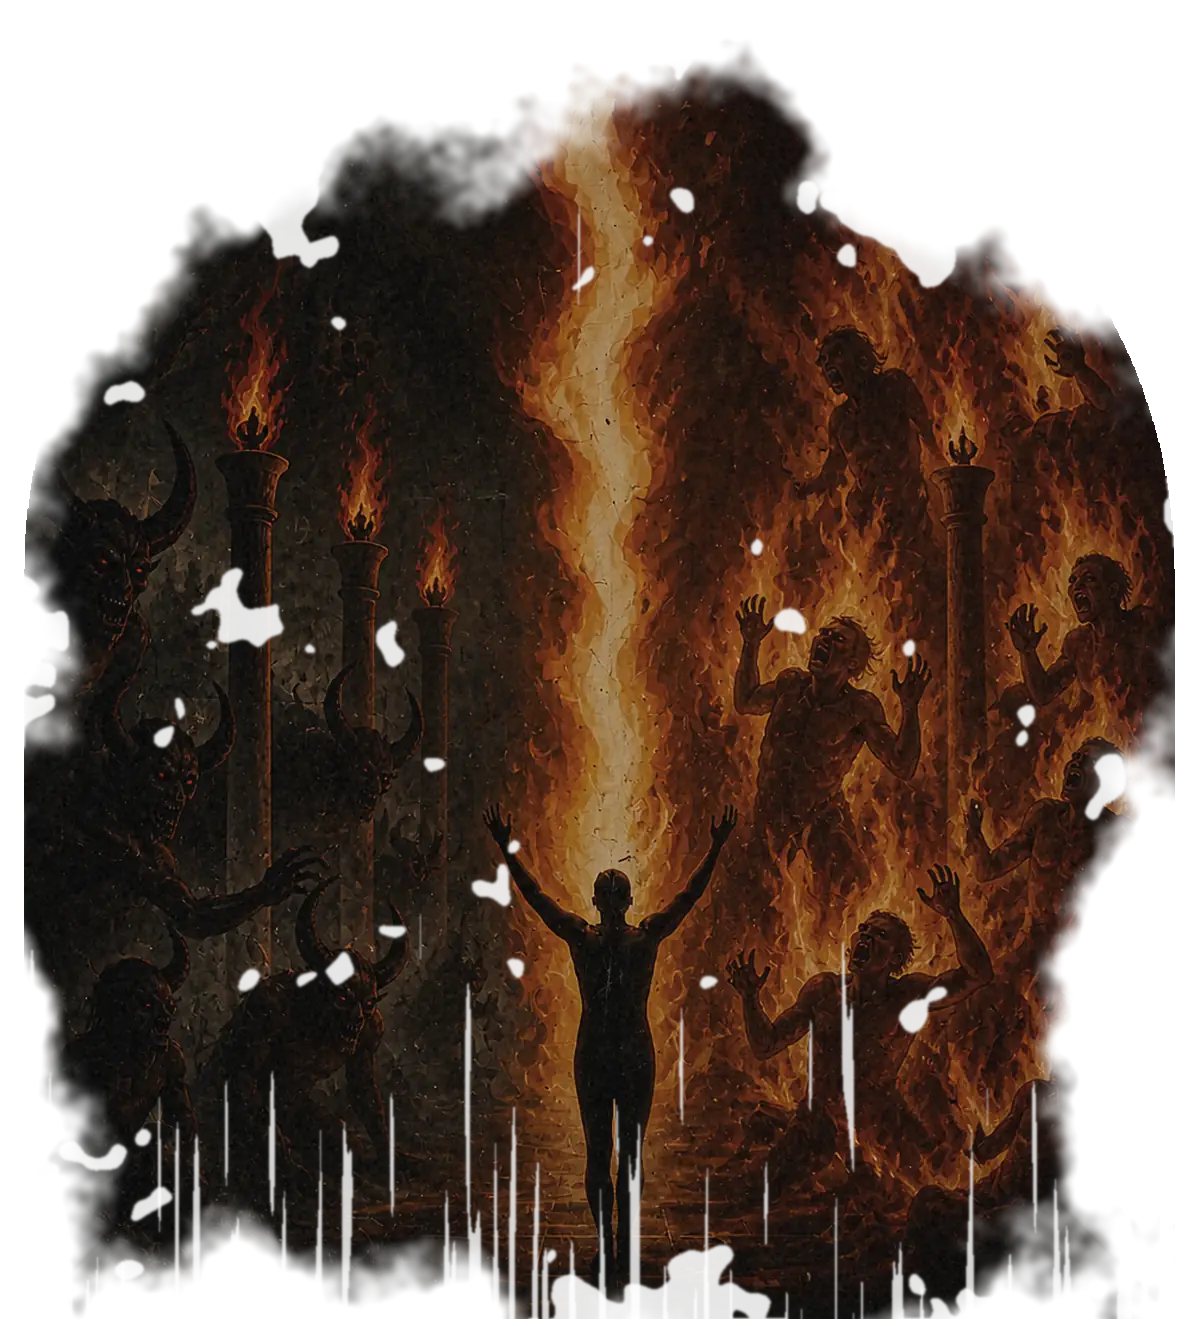
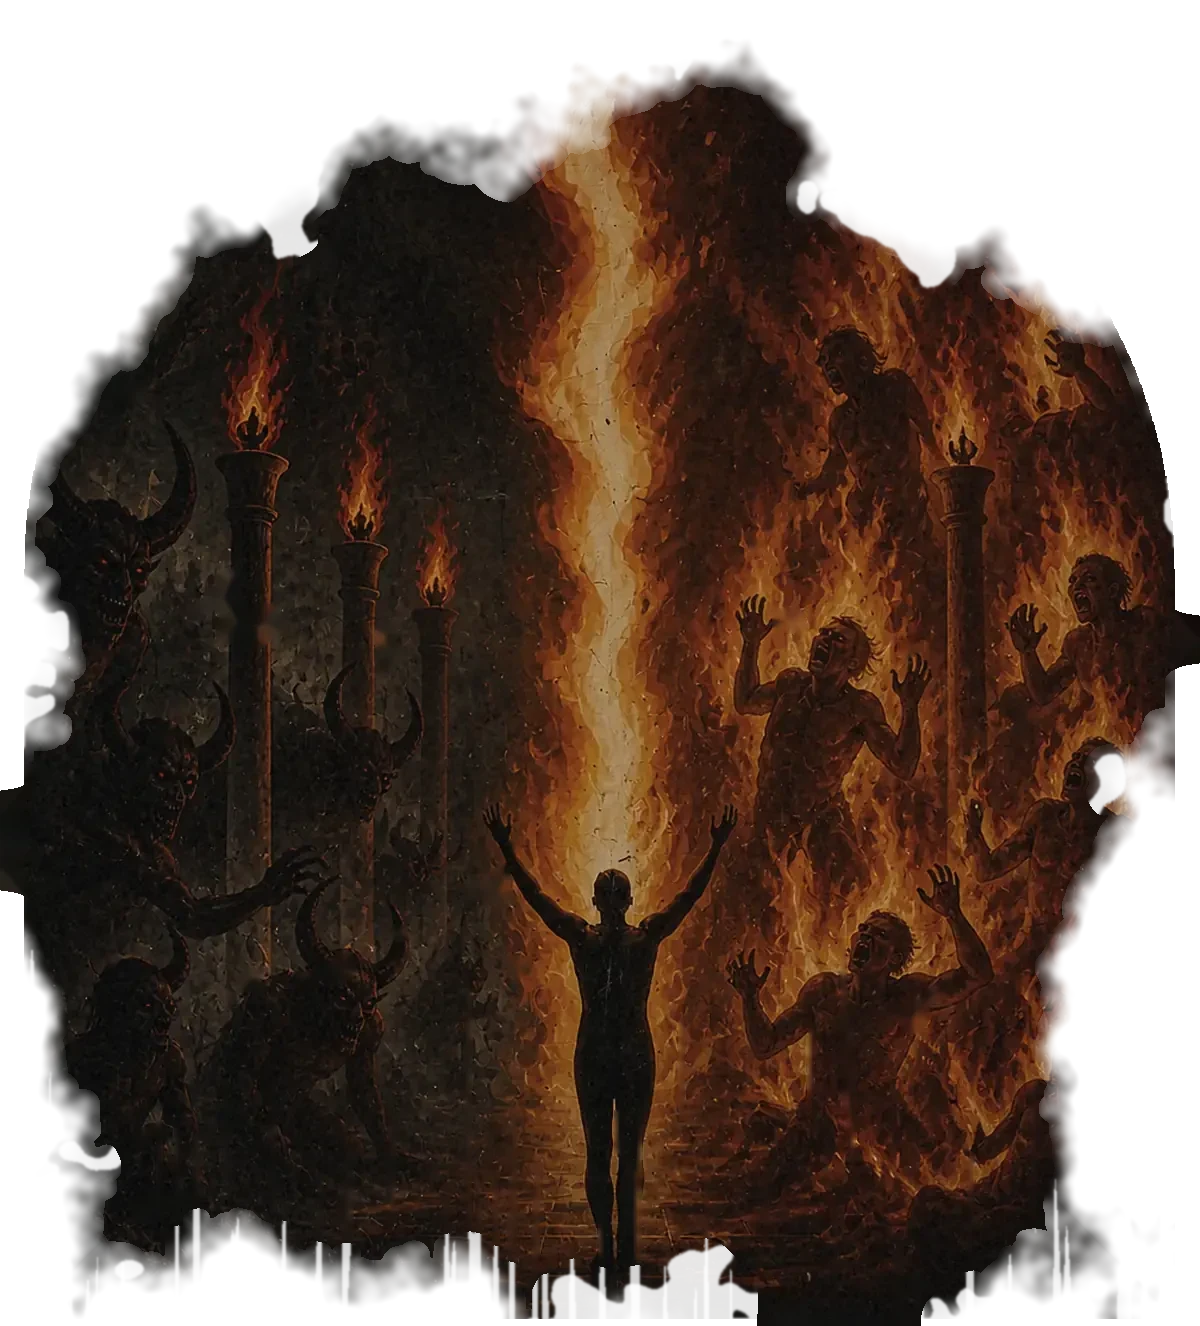
Murales: riempiti i buchi interni di trasparenza (si vedeva il vuoto dietro), bordi consumati invariati
Claude-Session: https://claude.ai/code/session_014dApnh5cQuMdZvTWDcVASP

diff --git a/sw.js b/sw.js
@@ -3,7 +3,7 @@
  * - Asset pesanti (modelli, texture, audio): cache separata; scaricati in background dopo l'installazione.
  * Le due versioni qui sotto le aggiorna tools/bump.sh a ogni modifica (hash del contenuto): non toccarle a mano. */
 const SHELL_VERSION = '707dbf1197';   // @shell
-const ASSET_VERSION = 'c5278d8dba';   // @assets
+const ASSET_VERSION = '764b8881e4';   // @assets
 const SHELL = 'ng-shell-' + SHELL_VERSION, ASSETS = 'ng-assets-' + ASSET_VERSION;
 const SHELL_FILES = ['./','./css/style.css','./icons/icon-180.png','./icons/icon-192.png','./icons/icon-32.png','./icons/icon-512.png','./icons/maskable-512.png','./index.html','./js/audio/ambience.js','./js/audio/audio.js','./js/audio/hall.js','./js/events/ambient.js','./js/events/cellar.js','./js/events/combat.js','./js/events/dawn.js','./js/events/door.js','./js/events/film-shrine.js','./js/events/glass.js','./js/events/hall.js','./js/events/hound.js','./js/events/keypad.js','./js/events/lightblade.js','./js/events/morgue.js','./js/events/notes.js','./js/events/rats.js','./js/events/scare.js','./js/events/sorella.js','./js/events/space.js','./js/events/torch.js','./js/events/tower.js','./js/events/tv.js','./js/events/ward.js','./js/events/warehouse.js','./js/main.js','./js/personal.js','./js/player/chapel-approach.js','./js/player/controls.js','./js/player/player.js','./js/pwa.js','./js/render/quality.js','./js/render/scene.js','./js/story.js','./js/ui/instability.js','./js/ui/rgbshift.js','./js/world/aged.js','./js/world/atmos.js','./js/world/bedroom.js','./js/world/bend.js','./js/world/blood.js','./js/world/bloodfont.js','./js/world/breath.js','./js/world/candles.js','./js/world/chapel.js','./js/world/contact-shadows.js','./js/world/decor.js','./js/world/dust.js','./js/world/electrical-panel.js','./js/world/elevator.js','./js/world/extra.js','./js/world/film-catalog.js','./js/world/film-shrine.js','./js/world/fingerwrite.js','./js/world/lights.js','./js/world/materials.js','./js/world/morgue-wall.js','./js/world/nun.js','./js/world/portal.js','./js/world/props.js','./js/world/radiograph.js','./js/world/redlight.js','./js/world/reflection-substitute.js','./js/world/rooms.js','./js/world/rosary.js','./js/world/round-lamps.js','./js/world/rusted-door-frame.js','./js/world/tunnel.js','./js/world/worn-paper.js','./js/world/worn-steel.js','./manifest.webmanifest','./vendor/three/LICENSE','./vendor/three/Reflector.js','./vendor/three/loaders/GLTFLoader.js','./vendor/three/three.module.min.js','./vendor/three/utils/BufferGeometryUtils.js']; // @shellfiles
 const ASSET_FILES = ['./assets/audio/crowd_drone.mp3','./assets/audio/demon_growl.mp3','./assets/audio/fire_swoosh.mp3','./assets/audio/hound_breath.mp3','./assets/audio/step0.mp3','./assets/audio/step1.mp3','./assets/audio/step2.mp3','./assets/audio/step3.mp3','./assets/audio/step4.mp3','./assets/models/agnese/suor-agnese.glb','./assets/models/ammo.glb','./assets/models/axe.glb','./assets/models/bin.glb','./assets/models/c_nurse.glb','./assets/models/c_occ.glb','./assets/models/cabinet.glb','./assets/models/cam.glb','./assets/models/can.glb','./assets/models/cart.glb','./assets/models/chair.glb','./assets/models/door.glb','./assets/models/gate.glb','./assets/models/hlamp.glb','./assets/models/hound.glb','./assets/models/hs_bed.glb','./assets/models/hw_door_1.glb','./assets/models/hw_wheel_chair.glb','./assets/models/kit_cables.glb','./assets/models/kit_fence.glb','./assets/models/kit_gutter.glb','./assets/models/kit_ind.glb','./assets/models/kit_manhole.glb','./assets/models/kit_pipes.glb','./assets/models/lamp.glb','./assets/models/m_bell.glb','./assets/models/m_diver.glb','./assets/models/m_nurse.glb','./assets/models/m_occ.glb','./assets/models/m_pirate.glb','./assets/models/m_root.glb','./assets/models/m_varka.glb','./assets/models/m_whisperer.glb','./assets/models/mg_chair.glb','./assets/models/mg_tool1.glb','./assets/models/mg_tool3.glb','./assets/models/mg_tool4.glb','./assets/models/mg_wall.glb','./assets/models/pistol.glb','./assets/models/rack.glb','./assets/models/rim.glb','./assets/models/seclight.glb','./assets/models/shelf.glb','./assets/models/slamp1.glb','./assets/models/slamp2.glb','./assets/models/sorella.glb','./assets/models/stool.glb','./assets/models/stove.glb','./assets/models/tank.glb','./assets/models/whisperer.glb','./assets/models/wlamp.glb','./assets/models/x_basket.glb','./assets/models/x_bust.glb','./assets/models/x_clock.glb','./assets/models/x_gnome.glb','./assets/models/x_lion.glb','./assets/models/x_micro.glb','./assets/models/x_rat.glb','./assets/models/x_screen.glb','./assets/models/x_spray.glb','./assets/models/x_tv.glb','./assets/models/x_watch.glb','./assets/tex/alt_stone.jpg','./assets/tex/bath_bg.jpg','./assets/tex/blood_digits.png','./assets/tex/blood_font.png','./assets/tex/blood_real.png','./assets/tex/brick_c.jpg','./assets/tex/brick_n.jpg','./assets/tex/brick_orm.jpg','./assets/tex/elevator_details.webp','./assets/tex/elevator_mural.webp','./assets/tex/film-shrine/collection.webp','./assets/tex/film-shrine/featured.webp','./assets/tex/film-shrine/sources.json','./assets/tex/floorA_c.jpg','./assets/tex/floorA_n.jpg','./assets/tex/floorA_orm.jpg','./assets/tex/floorB_c.jpg','./assets/tex/floorB_n.jpg','./assets/tex/floorB_orm.jpg','./assets/tex/floor_planks.jpg','./assets/tex/foot_l.png','./assets/tex/foot_r.png','./assets/tex/hall_bg.jpg','./assets/tex/handA.png','./assets/tex/handC.png','./assets/tex/handM.png','./assets/tex/handN.png','./assets/tex/mg_floor.jpg','./assets/tex/morgue_doll_head.webp','./assets/tex/morgue_wall_atlas.webp','./assets/tex/night_bg.jpg','./assets/tex/pic_alice.jpg','./assets/tex/pic_anatomy.webp','./assets/tex/pic_burn_figure.webp','./assets/tex/pic_chapel_altar.webp','./assets/tex/pic_chapel_hell.webp','./assets/tex/pic_chapel_skel.webp','./assets/tex/pic_charcoal.webp','./assets/tex/pic_corridor.webp','./assets/tex/pic_drawing.jpg','./assets/tex/pic_drawing2.webp','./assets/tex/pic_elisa.jpg','./assets/tex/pic_elisa_altar_burnt.webp','./assets/tex/pic_family.webp','./assets/tex/pic_kid_1.webp','./assets/tex/pic_kid_2.webp','./assets/tex/pic_kid_3.webp','./assets/tex/pic_kid_4.webp','./assets/tex/pic_laya.jpg','./assets/tex/pic_mural_angel.webp','./assets/tex/pic_mural_angels.webp','./assets/tex/pic_mural_cathedral.webp','./assets/tex/pic_mural_child.webp','./assets/tex/pic_mural_corridor.webp','./assets/tex/pic_mural_demon.webp','./assets/tex/pic_mural_dog.webp','./assets/tex/pic_mural_door.webp','./assets/tex/pic_mural_eyes.webp','./assets/tex/pic_mural_faces.webp','./assets/tex/pic_mural_fire.webp','./assets/tex/pic_mural_inferno.webp','./assets/tex/pic_mural_nun.webp','./assets/tex/pic_mural_ritual.webp','./assets/tex/pic_mural_skull.webp','./assets/tex/pic_mural_throne.webp','./assets/tex/pic_mural_wide.webp','./assets/tex/pic_rebecca.jpg','./assets/tex/pic_saint.webp','./assets/tex/pic_steve.jpg','./assets/tex/pic_window.webp','./assets/tex/pic_yana.jpg','./assets/tex/pt_altar_mold.webp','./assets/tex/pt_blocks.webp','./assets/tex/pt_gravel.webp','./assets/tex/pt_layers.webp','./assets/tex/pt_mold.webp','./assets/tex/pt_plaster.webp','./assets/tex/pt_rough.webp','./assets/tex/pt_stain.webp','./assets/tex/rust_c.jpg','./assets/tex/rust_n.jpg','./assets/tex/rust_orm.jpg','./assets/tex/rust_ov.jpg','./assets/tex/rust_ov2.jpg','./assets/tex/stone_c.jpg','./assets/tex/stone_n.jpg','./assets/tex/stone_orm.jpg','./assets/tex/sym_eye.png','./assets/tex/sym_face.png','./assets/tex/sym_house.png','./assets/tex/wallpaper_burnt.jpg','./assets/tex/ward_ceiling.jpg','./assets/tex/wr_elisa_1.png','./assets/tex/wr_elisa_2.png','./assets/tex/wr_elisa_3.png','./assets/tex/wr_elisa_4.png','./assets/tex/wr_elisa_h.png','./assets/tex/wr_elisa_m.png','./assets/tex/wr_elisa_o.png','./assets/tex/wr_sigil.png','./assets/tex/wr_std_c2.png','./assets/tex/wr_std_h.png','./assets/tex/wr_std_m.png','./assets/tex/wr_std_o.png','./assets/tex/wr_std_t1.png','./assets/tex/wr_std_t3.png','./assets/tex/wr_std_w4.png','./assets/tex/wr_thai.webp','./assets/tex/wr_yana_1.png','./assets/tex/wr_yana_2.png','./assets/tex/wr_yana_3.png','./assets/tex/wr_yana_4.png','./assets/tex/wr_yana_h.png','./assets/tex/wr_yana_m.png','./assets/tex/wr_yana_o.png','./assets/tex/xray_elisa.webp']; // @assetfiles
